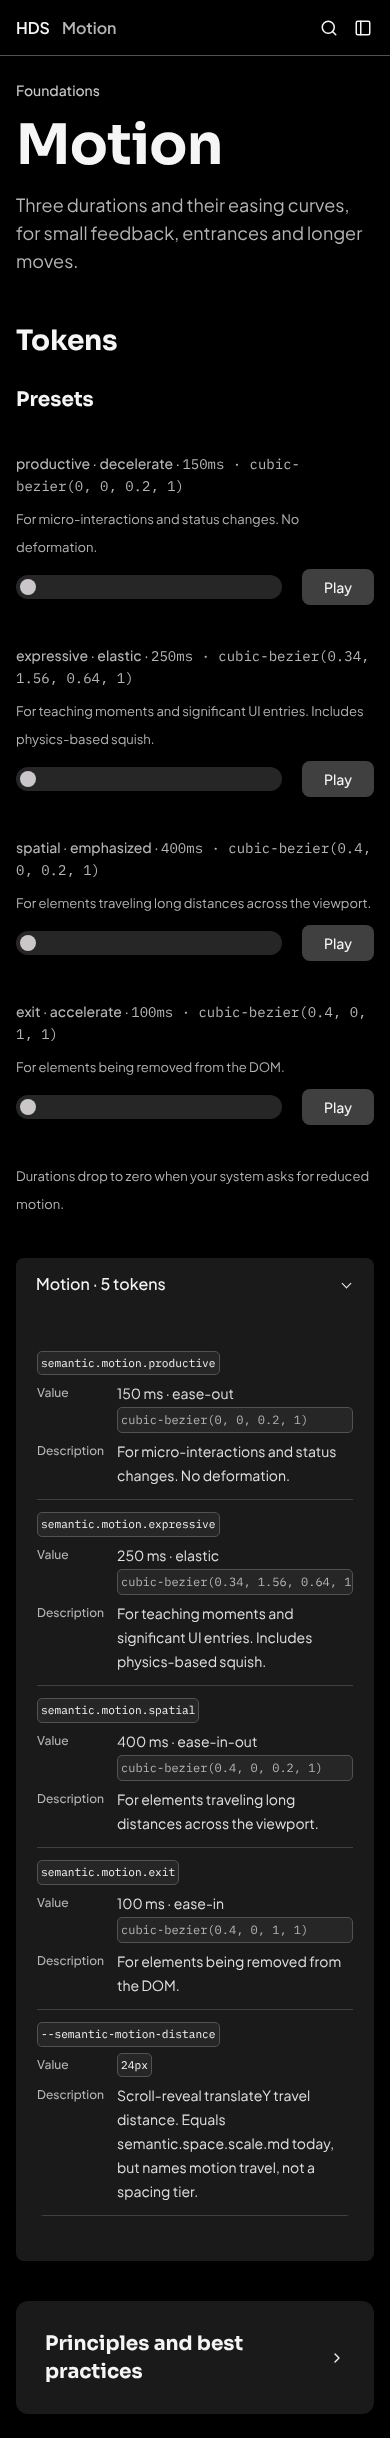
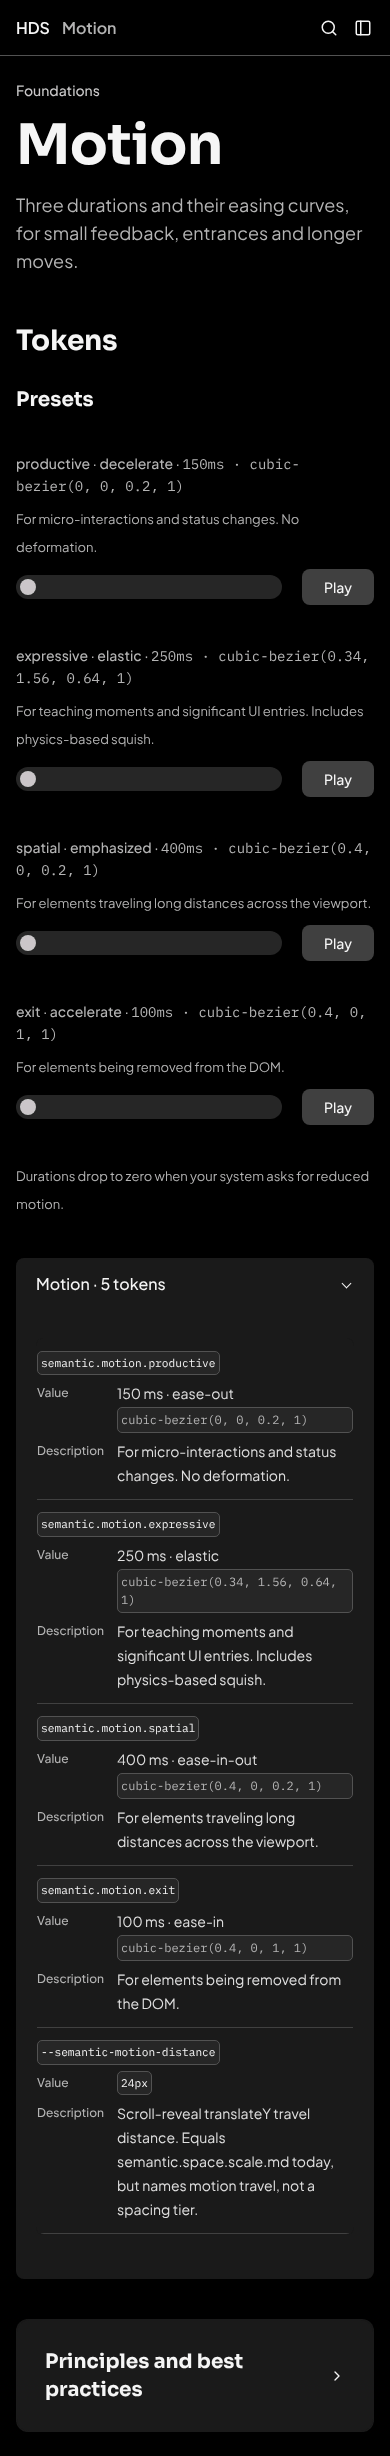
fix(docs-site): review follow-ups for the docs polish
- Token curve wraps at its commas on a phone instead of running past the chip.
- Typography tracking joins the readable summary instead of a mono "detail".
- Section heads (h2/h3) keep their break-word safety; only the page title steps down.
- Comment the React 18/19 ReactNode fragment bridge in the docs router.
- Refresh the after screenshots.

skip-changeset: docs site only.

Claude-Session: https://claude.ai/code/session_018iVR1wRh1cAwZDidTnSJYa

diff --git a/docs-site/app/globals.css b/docs-site/app/globals.css
@@ -79,6 +79,12 @@ h4 {
   line-height: var(--hds-heading-line-height);
   letter-spacing: var(--hds-heading-letter-spacing);
 }
+/* A section head (a grouped page's component name) breaks rather than scrolling a phone
+   sideways; the page title instead steps its size down, below. */
+#nd-page .prose h2:not(.hds-demo-frame *),
+#nd-page .prose h3:not(.hds-demo-frame *) {
+  overflow-wrap: break-word;
+}
 /* The page title never breaks inside a word ("DataTableSe / ction"). The page sets
    --hds-title-em to the em width of the title's widest word (lib/title-fit.ts); the display
    size steps down fluidly until that word fits the column, and is the token size wherever it
@@ -298,6 +304,10 @@ pre {
   }
   .hds-token-table td > * {
     min-width: 0;
+  }
+  /* The curve wraps at its commas rather than running past a phone's edge. */
+  .hds-token-table .hds-token-detail {
+    white-space: normal;
   }
   /* The demo frame draws on the page canvas, so its side inset is empty space on a phone:
      give the demo (a table, a toolbar row) that width back. */

diff --git a/docs-site/lib/token-tables.ts b/docs-site/lib/token-tables.ts
@@ -179,9 +179,10 @@ function compositeDisplay(
   if (type === 'typography') {
     const family = part('fontFamily').split(',')[0]!.replace(/['"]/g, '').trim();
     const tracking = part('letterSpacing');
+    const tracked = tracking && !/^0(px|em|rem)?$/.test(tracking) ? ` · ${tracking} tracking` : '';
     return {
-      value: `${family} ${part('fontWeight')} · ${part('fontSize')} / ${part('lineHeight')}`,
-      detail: tracking && !/^0(px|em|rem)?$/.test(tracking) ? `tracking ${tracking}` : null,
+      value: `${family} ${part('fontWeight')} · ${part('fontSize')} / ${part('lineHeight')}${tracked}`,
+      detail: null,
     };
   }
   return null;

diff --git a/tests/docs-site/docs-polish.test.tsx b/tests/docs-site/docs-polish.test.tsx
@@ -112,7 +112,8 @@ describe('3. token table typography', () => {
 
   it('shows a typography composite as family weight · size / line height', () => {
     const row = tokenRow(tokens, 'semantic.typography.display')!;
-    expect(row.value).toMatch(/^Sora 700 · \d+px \/ [\d.]+$/);
+    expect(row.value).toMatch(/^Sora 700 · \d+px \/ [\d.]+( · -?[\d.]+(px|em) tracking)?$/);
+    expect(row.detail).toBeNull();
     expect(row.literal).toBe(false);
   });
 

diff --git a/docs-site/components/docs-router.tsx b/docs-site/components/docs-router.tsx
@@ -19,6 +19,7 @@ export function DocsRouter({ children }: { children: ReactNode }) {
   );
   return (
     <HdsRouterProvider adapter={adapter}>
+      {/* A fragment bridges the docs-site (React 19) and package (React 18) ReactNode types. */}
       <>{children}</>
     </HdsRouterProvider>
   );
